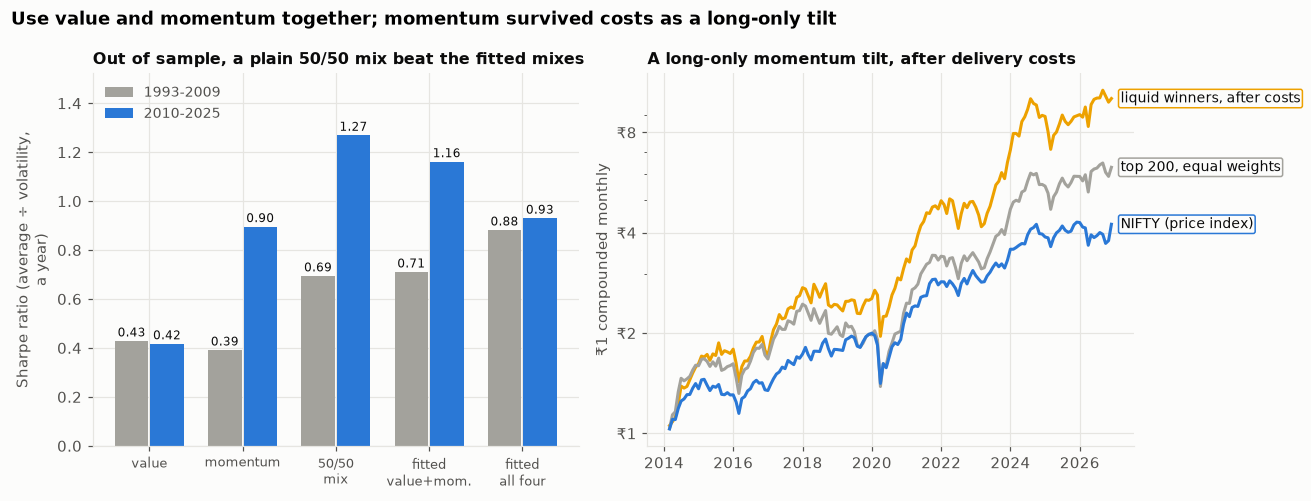
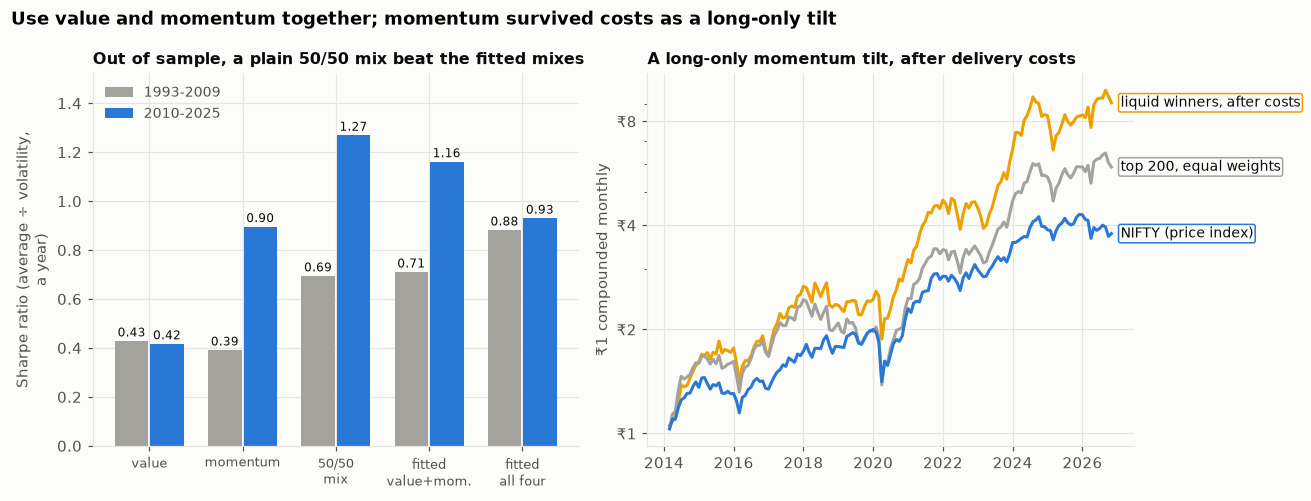
fix: rerun momentum and stock exposures in the point-in-time top 200, charge the DP fee per stock sold, drop the archive's partial last month, fix the lab's search label and skip link, and tighten finding wording and caveats after review

diff --git a/src/ff/lab.html b/src/ff/lab.html
@@ -146,8 +146,9 @@ $js
     const hit = [...el("ff-hits").options].find((o) => o.value === q);
     if (hit) {
       fund = hit.dataset.code;
-      if (![...el("ff-fund").options].some((o) => o.value === fund)) el("ff-fund").insertAdjacentHTML("beforeend", `<option value="${fund}"></option>`);
-      el("ff-fund").lastElementChild.textContent = q; el("ff-fund").value = fund; save(); drawFund();
+      let opt = [...el("ff-fund").options].find((o) => o.value === fund);
+      if (!opt) { el("ff-fund").insertAdjacentHTML("beforeend", `<option value="${fund}"></option>`); opt = el("ff-fund").lastElementChild; opt.textContent = q; }
+      el("ff-fund").value = fund; save(); drawFund();
       return;
     }
     if (q.length < 3) return;

diff --git a/src/ff/page.html b/src/ff/page.html
@@ -105,7 +105,7 @@
 </style>
 </head>
 <body>
-<a class="skip" href="#main">Skip to the factor lab</a>
+<a class="skip" href="#main" onclick="event.preventDefault(); document.getElementById('main').focus()">Skip to the factor lab</a>
 <div class="wrap">
 <header>
 <h1>Indian Fama-French factors</h1>
@@ -118,7 +118,7 @@ pick, and splits any mutual fund’s return into those exposures and what is lef
 <nav aria-label="Sections"><ul>
 $nav
 </ul></nav>
-<main id="main" class="wrap">
+<main id="main" class="wrap" tabindex="-1">
 $sections
 </main>
 <footer class="wrap">

diff --git a/src/ff/reports.py b/src/ff/reports.py
@@ -104,7 +104,9 @@ def report_momentum(out_dir: Path) -> dict:
     """Momentum rebuilt from the NSE archive (ff.momentum) against IIMA's WML over the months
     both cover: the IIMA-like build (12-1 momentum, top and bottom 30%, big = top 10% by past
     turnover, equal weights), and one change at a time: turnover weights, no size split, no
-    skipped month, and today's survivors only. Correlation, average a year with Newey-West t,
+    skipped month, today's survivors only, and the reference model's point-in-time top 200 (the archive
+    itself holds stocks that were among its most-traded at some point, chosen with hindsight).
+    Correlation, average a year with Newey-West t,
     the regression of ours on IIMA's, tracking error, and how much of the winners changes each
     month. Needs the NSE bhavcopy archive."""
     from ff import data, momentum, stats
@@ -112,12 +114,15 @@ def report_momentum(out_dir: Path) -> dict:
     f = data.factors()
     px, tv = momentum.monthly_panel()
     alive = px.columns[px.iloc[-1].notna()]
+    uni = momentum.monthly_universe()
     variants = {
         "IIMA-like": ({}, px),
         "turnover weights": ({"weight": "turnover"}, px),
         "no size split": ({"sized": False}, px),
         "no skipped month": ({"skip": 0}, px),
         "survivors only": ({}, px[alive]),
+        "point-in-time top 200": ({"uni": uni}, px),
+        "top 200, no size split": ({"sized": False, "uni": uni}, px),
     }
     res, out = {}, {}
     for name, (kw, p) in variants.items():
@@ -173,7 +178,7 @@ def report_momentum(out_dir: Path) -> dict:
     names = list(variants)
     y = np.arange(len(names))[::-1]
     vals = [100 * out[n][1]["mean"] for n in names]
-    ax.barh(y, vals, color=[plots.COLORS["WML"]] + [plots.SERIES[0]] * (len(names) - 1),
+    ax.barh(y, vals, color=[plots.COLORS["WML"]] + [plots.SERIES[0]] * 4 + [plots.SERIES[2]] * 2,
             height=0.6)
     iima = 100 * stats.summary(j["IIMA"])["mean"]
     ax.axvline(iima, color=plots.TEXT_2, lw=1, ls="--")
@@ -242,6 +247,19 @@ def report_stocks(out_dir: Path) -> dict:
         stab[lab] = q[f"{c}_1"].rank().corr(q[f"{c}_2"].rank())
     res["rank correlation of loadings, 2013-2019 against 2020-2025"] = "; ".join(
         f"{k} {v:.2f}" for k, v in stab.items())
+    uni = momentum.monthly_universe().shift(1).reindex(index=e.index, columns=e.columns)
+    e_pit = e.where(uni.fillna(False).astype(bool))  # months after a month-end in the top 200
+    ins_p = ex.in_sample(e_pit, f)
+    g = ins_p[ins_p["model"] == "4-factor"]
+    res["point-in-time top 200 only"] = (
+        f"{g['symbol'].nunique()} stocks with 60+ such months: 4-factor median loadings market "
+        f"{g['MKT'].median():+.2f}, size {g['SMB'].median():+.2f} (t > 2 for "
+        f"{(g['t_SMB'] > 2).mean():.0%}), value {g['HML'].median():+.2f}, momentum "
+        f"{g['WML'].median():+.2f}; median alpha {g['alpha'].median():+.1%}")
+    oo_p = ex.out_of_sample(e_pit, f)
+    res["  point-in-time, out of sample"] = (
+        f"{oo_p['symbol'].nunique()} stocks: median R² " + ", ".join(
+            f"{m} {oo_p[oo_p['model'] == m]['oos_r2'].median():.1%}" for m in ex.MODELS))
     first = px.apply(lambda s: s.first_valid_index())
     res["  archive stocks first priced after June 2013"] = (
         f"{(first > pd.Timestamp('2013-06-30')).sum()} of {px.shape[1]}")
@@ -636,7 +654,8 @@ def report_verdict(out_dir: Path) -> dict:
     ax.set_yticklabels(["₹1", "₹2", "₹4", "₹8"])
     ax.set_ylabel("₹1 compounded monthly")
     ax.set_title("A long-only momentum tilt, after delivery costs", fontsize=10.5, loc="left")
-    fig.suptitle("Use value and momentum together; momentum survived costs as a long-only tilt",
+    fig.suptitle("Use value and momentum together; a long-only momentum tilt kept an edge after "
+                 "costs",
                  x=0.01, ha="left", fontweight="bold")
     fig.tight_layout()
     plots.save(fig, out_dir, "verdict")

diff --git a/src/ff/momentum.py b/src/ff/momentum.py
@@ -26,20 +26,25 @@ def monthly_panel() -> tuple[pd.DataFrame, pd.DataFrame]:
     alive = px.notna().resample("ME").max()  # traded at least once in the month
     m_px = m_px.where(alive)
     m_tv = tv.rolling(250, min_periods=120).median().resample("ME").last()
+    if (m_px.index[-1] - px.index[-1]).days > 3:  # the archive stops partway through its last month
+        m_px, m_tv = m_px.iloc[:-1], m_tv.iloc[:-1]
     return m_px, m_tv
 
 
 def wml(m_px: pd.DataFrame, m_tv: pd.DataFrame, skip: int = 1, weight: str = "equal",
         sized: bool = True, big_share: float = 0.10, tail: float = 0.30,
-        min_names: int = 5) -> pd.DataFrame:
+        min_names: int = 5, uni: pd.DataFrame | None = None) -> pd.DataFrame:
     """Monthly winners-minus-losers returns, formed at each month-end t and held over t+1.
     skip=1 measures momentum from t-12 to t-1 (IIMA, Carhart); skip=0 from t-12 to t. Returns a
-    frame with WML, the four corner portfolios (when sized) and the number of stocks."""
+    frame with WML, the four corner portfolios (when sized) and the number of stocks. With `uni`
+    (month-end booleans, e.g. monthly_universe), only stocks in it at t are eligible."""
     nxt = m_px.shift(-1) / m_px - 1  # return over month t+1
     mom = m_px.shift(skip) / m_px.shift(12) - 1
     rows = {}
     for t in m_px.index[12:-1]:
         ok = mom.loc[t].notna() & m_px.loc[t].notna() & m_tv.loc[t].notna()
+        if uni is not None:
+            ok &= uni.reindex(index=[t], columns=m_px.columns, fill_value=False).iloc[0]
         r = nxt.loc[t][ok]
         if not np.isfinite(r).all():  # a stock with no price next month: last price, return 0
             r = r.fillna(0.0)

diff --git a/src/ff/verdict.py b/src/ff/verdict.py
@@ -6,9 +6,11 @@ import pandas as pd
 
 # NSE delivery costs per rupee traded, as checked in momentum-after-costs (Zerodha, Nov 2026):
 # STT 0.1% each side, stamp duty 0.015% on buys, NSE 0.00322% and SEBI 0.0001% each side with 18%
-# GST, plus 5 bp of slippage each side (the ₹16 DP charge per stock sold is left out).
+# GST, plus 5 bp of slippage each side, and the ₹16 DP charge per stock sold on a ₹10 lakh book.
 BUY = 0.001 + 0.00015 + (0.0000322 + 0.000001) * 1.18 + 0.0005
 SELL = 0.001 + (0.0000322 + 0.000001) * 1.18 + 0.0005
+DP_PER_SELL = 16.0
+CAPITAL = 1_000_000.0
 
 
 def tangency(train: pd.DataFrame) -> pd.Series:
@@ -41,7 +43,8 @@ def winners_long_only(m_px: pd.DataFrame, uni: pd.DataFrame | None = None,
         cur = held.reindex(allw.index, fill_value=0.0)
         buys = (allw - cur).clip(lower=0).sum()
         sells = (cur - allw).clip(lower=0).sum()
-        cost = buys * BUY + sells * SELL
+        n_sold = int(((cur - allw) > 1e-12).sum())
+        cost = buys * BUY + sells * SELL + n_sold * DP_PER_SELL / CAPITAL
         r = nxt.loc[t].reindex(win).fillna(0.0)
         gross = float((target * r).sum())
         grown = target * (1 + r)

diff --git a/tests/test_verdict.py b/tests/test_verdict.py
@@ -17,7 +17,18 @@ def test_long_only_winners_pay_costs_on_trades_only():
     px = pd.DataFrame(100 * np.cumprod(1 + np.tile(drift, (16, 1)), axis=0), index=idx)
     w = verdict.winners_long_only(px)
     first = w.iloc[0]
-    assert np.isclose(first["cost"], verdict.BUY)  # buys the whole book once
+    assert np.isclose(first["cost"], verdict.BUY)  # buys the whole book once, sells nothing
     assert (w["turnover"].iloc[1:] < 0.02).all()  # later months only rebalance the drift
     assert (w["gross"] > w["bench"]).all()
     assert np.allclose(w["net"], (1 - w["cost"]) * (1 + w["gross"]) - 1)
+
+
+def test_each_stock_sold_pays_the_dp_charge():
+    idx = pd.date_range("2020-01-31", periods=16, freq="ME")
+    rng = np.random.default_rng(5)
+    px = pd.DataFrame(100 * np.cumprod(1 + rng.normal(0, 0.08, (16, 60)), axis=0), index=idx)
+    w = verdict.winners_long_only(px)
+    floor = verdict.DP_PER_SELL / verdict.CAPITAL
+    later = w.iloc[1:]
+    # a month that replaces names pays at least one DP charge on top of the percentage costs
+    assert (later.loc[later["turnover"] > 0.05, "cost"] > floor).all()

diff --git a/src/ff/crashes.py b/src/ff/crashes.py
@@ -2,7 +2,7 @@
 
 Scaling (Barroso and Santa-Clara, 2015): at each month-end, a factor's position for the next
 month is target / realised volatility, the realised volatility from the factor's daily returns
-over the past `look` trading days (annualised with the window's own trading days a year), capped
+over the past `look` trading days (annualised with 250 trading days a year), capped
 at `cap`. The look-back and the target are chosen on the training years only.
 """
 
@@ -14,8 +14,7 @@ from ff import stats
 
 def realised_vol(daily: pd.Series, look: int) -> pd.Series:
     """Annualised volatility of the past `look` daily returns, at each month-end."""
-    per_year = len(daily) / ((daily.index[-1] - daily.index[0]).days / 365.25)
-    v = daily.rolling(look, min_periods=int(0.8 * look)).std() * np.sqrt(per_year)
+    v = daily.rolling(look, min_periods=int(0.8 * look)).std() * np.sqrt(250)
     return v.resample("ME").last()
 
 

diff --git a/tests/test_momentum.py b/tests/test_momentum.py
@@ -29,3 +29,12 @@ def test_sized_wml_is_the_average_of_the_two_size_legs():
     w = momentum.wml(px, tv, sized=True, big_share=0.5)
     legs = ((w["WB"] - w["LB"]) + (w["WS"] - w["LS"])) / 2
     assert np.allclose(w["WML"], legs)
+
+
+def test_universe_mask_limits_the_eligible_stocks():
+    px, tv = _toy()
+    uni = pd.DataFrame(False, index=px.index, columns=px.columns)
+    uni.iloc[:, :55] = True
+    w_all = momentum.wml(px, tv, sized=False)
+    w_uni = momentum.wml(px, tv, sized=False, uni=uni)
+    assert (w_uni["n"] == 55).all() and (w_all["n"] == 60).all()

diff --git a/README.md b/README.md
@@ -34,7 +34,8 @@ the market's return minus the risk-free rate (the library's MF column, which mat
 published market premium of 4.93% a year since 1994); size (small minus big), value (cheap minus
 expensive on book-to-market) and momentum (winners minus losers on past returns) are long-short
 portfolios of listed companies, micro-caps and penny stocks excluded. Each factor's average a year
-is 12 times its monthly mean, with a Newey-West t (3 lags); compounded growth uses calendar years;
+is 12 times its monthly mean, with a Newey-West t (3 lags); compounded growth spreads the months
+counted over months ÷ 12 years;
 the halves are 1993–2009 and 2010–2025. Nothing is fitted. The market's own return is checked
 against NIFTY from the local archive where both exist.
 
@@ -60,8 +61,11 @@ IIMA's momentum rule (working paper 2013-09-05, section 3.2): at each month-end,
 return from 12 months back to one month back; winners are the top 30%, losers the bottom 30%; big
 companies are the top 10% by market value; the factor is the average of big winners minus big
 losers and small winners minus small losers, value-weighted, held for the next month. The NSE
-archive has split-adjusted prices for every stock that was among its most-traded from 2013,
-including 69 that later stopped trading, but no shares outstanding, so the rebuild uses each
+archive has split-adjusted prices for every stock that was among its most-traded at some point
+from 2013, including 69 that later stopped trading; that list was drawn up knowing which stocks
+became heavily traded, so the rebuild is also run within the reference model's point-in-time universe (each
+month's 200 most-traded stocks priced at ₹50 or more). The archive has no shares outstanding, so
+the rebuild uses each
 stock's median daily turnover over the past year for size and weights stocks equally; a stock
 that stops trading keeps its last price. It is compared with IIMA's factor over the 143 months
 both cover, February 2014 to December 2025, changing one choice at a time. Nothing is fitted.
@@ -72,7 +76,10 @@ both cover, February 2014 to December 2025, changing one choice at a time. Nothi
 - **It was rougher.** Its worst fall was −43% against IIMA's −26% over the same months.
 - **The details moved the average by several points.** Without the size split it made 16.1% a year;
   with turnover weights, 8.7%; without skipping the latest month, 11.3%; with today's survivors only,
-  9.9%. Every variant kept a correlation of 0.73–0.76 with IIMA's.
+  9.9%. Every variant kept a correlation of 0.72–0.76 with IIMA's.
+- **In the point-in-time top 200 it still tracked, a little lower.** The IIMA-like build made 10.3% a
+  year (t 2.06, correlation 0.72, loading 0.83, worst fall −33%); without the size split, 9.0% (t
+  2.06, correlation 0.76), so the 16.1% above owes much to the archive's hindsight-chosen list.
 - **Both halves agreed.** The correlation was 0.77 in 2014–2019 (17.1% a year against IIMA's 16.5%)
   and 0.74 in 2020–2025 (6.7% against 9.3%).
 - **Winners change slowly.** On average 17% of the winners list was replaced each month.
@@ -89,16 +96,21 @@ sample: for the 389 stocks with at least 48 months in each half, loadings fitted
 predict each 2020–2025 month from that month's factor returns, with no alpha; the score is the
 share of the stock's 2020–2025 variation that prediction explains. The archive holds stocks that
 were among its most-traded at some point from 2013 (140 of its 556 stocks were first priced after
-June 2013), so in-sample alphas are not evidence of skill.
+June 2013), chosen with hindsight, so the fits are repeated on the months each stock spent in the
+point-in-time top 200; in-sample alphas are not evidence of skill either way, and the stock returns
+leave out dividends while IIMA's factors include them.
 
 - **The market alone explained about a quarter.** CAPM's median R² was 24.5% in-sample; three
   factors 30.3%, four 31.4%.
 - **Three factors kept their edge out of sample.** Loadings from 2013–2019 explained a median 23.5%
   of 2020–2025 with CAPM, 26.5% with three factors and 25.2% with four; three factors beat CAPM for
   71% of stocks, and four beat three for only 42%.
-- **Most stocks leaned small, and many cheap.** Measured against IIMA's factors, where big means the
-  top 10% of all listed companies, the median size loading was +0.40 (significantly positive for
-  44% of stocks) and value +0.19 (28%); momentum −0.16, significantly negative for 14%.
+- **The archive's stocks leaned small and cheap; the top 200 barely did.** Against IIMA's factors,
+  where big means the top 10% of all listed companies, the archive's median size loading was +0.40
+  (significantly positive for 44% of stocks) and value +0.19; within the point-in-time top 200 (198
+  stocks with 60+ months) size was +0.08 (19%) and value +0.03. Momentum was −0.16 and −0.13. Out
+  of sample in the top 200 (112 stocks), three factors still led: 28.5% against 26.7% for CAPM and
+  25.5% for four.
 - **Size and value loadings carried over; momentum's didn't.** Ranked across stocks, 2013–2019
   loadings matched 2020–2025 with a correlation of 0.55 for size, 0.44 for value and 0.18 for
   momentum. CAPM beta kept 0.52, but the market loading inside the four-factor model only 0.11.
@@ -133,16 +145,18 @@ line up with the portfolios' averages, not whether unrelated assets are priced.
 
 <a href="docs/img/funds.png"><picture><source media="(prefers-reduced-motion: reduce)" srcset="docs/img/funds.png"><img src="docs/img/funds.gif" alt="Histogram of 297 Indian active equity funds' four-factor alpha against six index funds, and growth of one rupee in the top and bottom thirds of funds ranked on their past three years' alpha, 2017-2025" width="720"></picture></a>
 
-Every Indian diversified equity fund that mfapi.in lists with a direct plan and growth option
+The Indian diversified equity funds that mfapi.in lists with a direct plan and growth option
 (sector, thematic, overseas, index and closed-ended schemes left out), including 56 that have
-since stopped reporting: monthly returns from each month's last net asset value, after fees, from
+since stopped reporting (mfapi.in may not list every merged scheme): monthly returns from each
+month's last net asset value, after fees and trading costs, from
 January 2013, when direct plans began, to December 2025; 297 funds with at least 36 months. Each
 fund's return above the risk-free rate is regressed on CAPM, three and four factors (Newey-West t,
 3 lags). Six index funds tracking NIFTY 50, NIFTY Next 50, Midcap 150 and Smallcap 250 go through
 the same regression as a zero-skill baseline, since they only hold their index. Out of sample,
 each December from 2016 the funds with a full 36 months (167–215) are ranked on that window's
 four-factor alpha, and the top and bottom thirds are held equally weighted for the next 12 months;
-nothing after the ranking date is used.
+nothing after the ranking date is used. IIMA's factor portfolios carry no costs, which the index
+funds' alphas partly reflect.
 
 - **More factors raised funds' alpha.** The median alpha was +1.4% a year under CAPM, +1.5% under
   three factors and +2.6% under four; 24% of funds had t above 2 under four factors and none below
@@ -155,7 +169,7 @@ nothing after the ranking date is used.
   loadings of +0.25 and +0.41; large cap funds +1.1%.
 - **Past alpha persisted a little.** From 2017 to 2025 the past top third returned 18.0% a year with
   a four-factor alpha of +3.7% (t 2.20), the bottom third 16.1% and +2.4% (t 1.60); top minus
-  bottom +1.4% a year (t 2.10).
+  bottom returned +1.9% a year, with a four-factor alpha of +1.4% (t 2.10).
 
 ### 6. Momentum's crashes came in rebounds; scaling by volatility didn't help out of sample
 
@@ -167,7 +181,8 @@ months). Volatility scaling, after Barroso and Santa-Clara (2015): each month a 
 a weight of a target volatility over its realised volatility from the previous month-end's daily
 returns, capped at 2. The look-back (21, 63, 126 or 252 trading days) is the one with the best
 Sharpe ratio on 1994–2009, and the target is the factor's 1994–2009 volatility; both are then
-fixed and scored on 2010–2025. Because 2010–2025 was calmer, scaled weights averaged 1.7–1.9, so
+fixed and scored on 2010–2025; volatility is annualised with 250 trading days. Because 2010–2025
+was calmer, scaled weights averaged 1.7–1.9, so
 worst months and falls are compared after setting both versions to the same volatility.
 
 - **Momentum crashed in rebounds after bear markets.** After a bear market its correlation with
@@ -178,12 +193,12 @@ worst months and falls are compared after setting both versions to the same vola
   −19.0% (January 2000); momentum −27.6% (November 2001).
 - **Scaling looked good where it was chosen.** On 1994–2009, scaled momentum's Sharpe ratio was
   0.64 against 0.38 unscaled; the market, size and value gained 0.03–0.10.
-- **Out of sample it didn't help.** On 2010–2025 the Sharpe ratios were 0.92 against 0.90 for
+- **Out of sample it didn't help.** On 2010–2025 the Sharpe ratios were 0.93 against 0.90 for
   momentum, 0.36 against 0.43 for the market, 0.37 against 0.42 for value and 0.06 against 0.07 for
   size; at the same volatility scaled momentum's worst month was −18.5% against −18.0% and its worst
   fall −35% against −33%.
 
-### 7. Use value and momentum together; momentum survived costs as a long-only tilt
+### 7. Use value and momentum together; a long-only momentum tilt kept an edge after costs
 
 <a href="docs/img/verdict.png"><picture><source media="(prefers-reduced-motion: reduce)" srcset="docs/img/verdict.png"><img src="docs/img/verdict.gif" alt="Sharpe ratios of value, momentum, a 50/50 mix and fitted mixes in 1993-2009 and 2010-2025, and growth of one rupee in long-only liquid momentum winners after costs against the equal-weighted top 200 and NIFTY, 2014-2026" width="720"></picture></a>
 
@@ -194,8 +209,10 @@ long-only winner and value portfolios against the market's own return. Third, a 
 tilt built from the archive: each month-end, the top 30% by 12-1 momentum within the reference model's
 point-in-time universe (that day's 200 most-traded stocks priced at ₹50 or more, so no look-ahead
 in which stocks are eligible), equally weighted, paying NSE delivery costs on every trade (STT,
-stamp duty, exchange and SEBI charges with GST, and 5 bp of slippage each side, as checked in
-momentum-after-costs), from February 2014 to November 2026, against the equally weighted top 200
+stamp duty, exchange and SEBI charges with GST, 5 bp of slippage each side and the ₹16 DP charge
+per stock sold on a ₹10 lakh book, as in momentum-after-costs; rebalancing to equal weights trims
+most holdings, and each trim is a sale), from February 2014 to October 2026, against the equally
+weighted top 200
 and NIFTY's price index. Before tax and without dividends; the IIMA portfolios carry no costs.
 
 - **A plain 50/50 mix did best out of sample.** Its Sharpe ratio was 0.69 in 1993–2009 and 1.27 in
@@ -205,14 +222,15 @@ and NIFTY's price index. Before tax and without dividends; the IIMA portfolios c
 - **Long-only winners beat the market.** IIMA's big winners beat the market's own return by 6.8% a
   year from 1993 (t 2.80), 3.6% since 2010 (t 1.52); small winners by 10.5% since 2010 (t 3.02).
   Long-only value was noisier: big value +9.6% a year (t 1.56) with a 28.9% tracking error.
-- **The liquid momentum tilt survived costs.** Trading 24% of the book a month cost 0.93% a year. It
-  compounded 19.8% a year after costs against 15.4% for the equally weighted top 200 and 11.9% for
-  NIFTY's price index; it beat the top 200 by 3.9% a year after costs (t 1.98), 4.3% in 2014–2019
-  and 3.6% in 2020–2026, and its worst fall was −30% against −43%.
+- **The liquid momentum tilt kept an edge after costs.** Trading 24% of the book a month cost 1.60% a
+  year. It compounded 18.9% a year after costs against 14.9% for the equally weighted top 200 and
+  11.0% for NIFTY's price index; it beat the top 200 by 3.6% a year after costs (t 1.81; 5.2%, t
+  2.63, before), 3.6% in both 2014–2019 and 2020–2026, and its worst fall was −31% against −43%.
 - **The verdict.** For risk, use market, size and value (finding 3). For alpha, use all four factors
-  and judge against same-style index funds (findings 4 and 5). Tilt towards momentum and value
-  together rather than either alone, long-only, and expect momentum's crashes in rebounds after bear
-  markets (finding 6); size earned nothing here (finding 1).
+  and judge against same-style index funds (findings 4 and 5). Value and momentum diversified each
+  other as long-short factors; long-only, only the momentum tilt was tested after costs and it kept
+  an edge, while long-only value was noisy (t 1.2–1.6). Expect momentum's crashes in rebounds after
+  bear markets (finding 6); size earned nothing here (finding 1).
 
 ## Quick start
 
